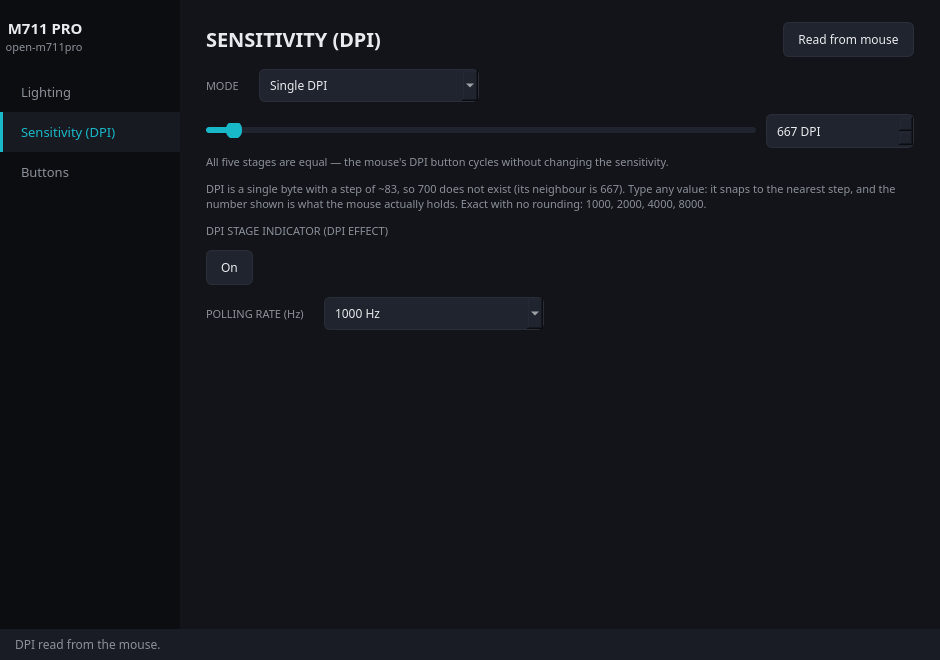
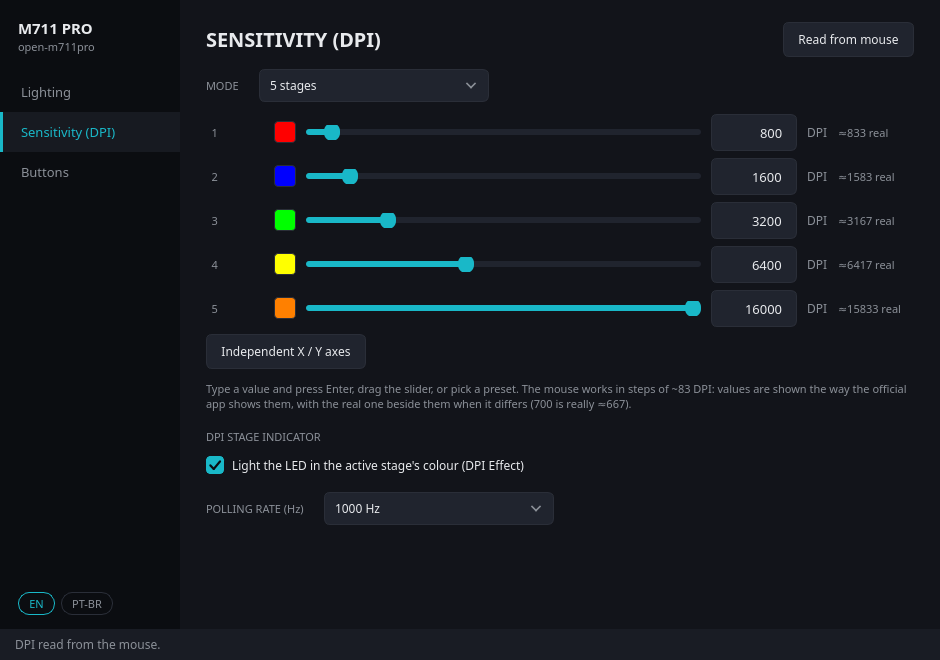
docs: fresh screenshots of the current interface, in English and Portuguese
The README images showed the old interface (unit inside the DPI field,
dark-block arrows, table indices on the buttons page). Rendered from the
real UI with stubbed, realistic data; the Portuguese README now shows the
Portuguese interface.

diff --git a/README.pt-BR.md b/README.pt-BR.md
@@ -19,7 +19,7 @@ núcleo **não tem nenhuma dependência**; a interface gráfica usa Qt (PySide6)
 é opcional.
 
 <p align="center">
-  <img src="assets/dpi.png" alt="Página de DPI do open-m711pro" width="720">
+  <img src="assets/pt-BR/dpi.png" alt="Página de DPI do open-m711pro" width="720">
 </p>
 
 > Sem vínculo com a Redragon e sem endosso dela. Use por sua conta e risco.
@@ -77,8 +77,9 @@ Redragon, este projeto é uma alternativa para este modelo.
 - **Botões** — remapeia os oito: botões de mouse, DPI +/−/alternar, tecla de
   disparo, três cliques, liga/desliga RGB, alternar polling, desativar
 - **Teclas multimídia** — tocar/pausar, próxima, anterior, mudo, parar, volume
-- **Teclas do teclado e combinações** — `key:a`, `combo:ctrl+c`, as duas
-  conferidas byte a byte com o que o app oficial grava
+- **Teclas do teclado e combinações** (ex.: Ctrl+C), pela interface ou pela
+  CLI (`key:a`, `combo:ctrl+c`) — conferidas byte a byte com o que o app
+  oficial grava
 - **Leitura do estado real** do mouse, não só do que este app gravou
 
 Ainda não mapeado: **macros** e o efeito de iluminação **Neon** do app oficial.
@@ -281,8 +282,8 @@ apague o arquivo.
 ## A interface
 
 <p align="center">
-  <img src="assets/lighting.png" alt="Página de iluminação: roda de cores HSV, efeitos, brilho e velocidade" width="440">
-  <img src="assets/buttons.png" alt="Página de botões: clique num número do mouse para ir à linha dele" width="440">
+  <img src="assets/pt-BR/lighting.png" alt="Página de iluminação: roda de cores HSV, efeitos, brilho e velocidade" width="440">
+  <img src="assets/pt-BR/buttons.png" alt="Página de botões: clique num número do mouse para ir à linha dele" width="440">
 </p>
 
 Clique num número no desenho do mouse para ir à linha daquele botão. Os números

diff --git a/README.md b/README.md
@@ -63,8 +63,9 @@ Redragon, this is an alternative for this particular model.
 - **Buttons** — remap all eight: mouse buttons, DPI up/down/cycle, fire key,
   three-click, RGB toggle, polling switch, disable
 - **Multimedia keys** — play/pause, next, previous, mute, stop, volume
-- **Keyboard keys and combinations** — `key:a`, `combo:ctrl+c`, both verified
-  byte for byte against what the official app writes
+- **Keyboard keys and combinations** (e.g. Ctrl+C), from the interface or the
+  CLI (`key:a`, `combo:ctrl+c`) — verified byte for byte against what the
+  official app writes
 - **Reading the real state** back from the mouse, not just what this app wrote
 
 Not mapped yet: **macros**, and the official app's **Neon** lighting effect. A
